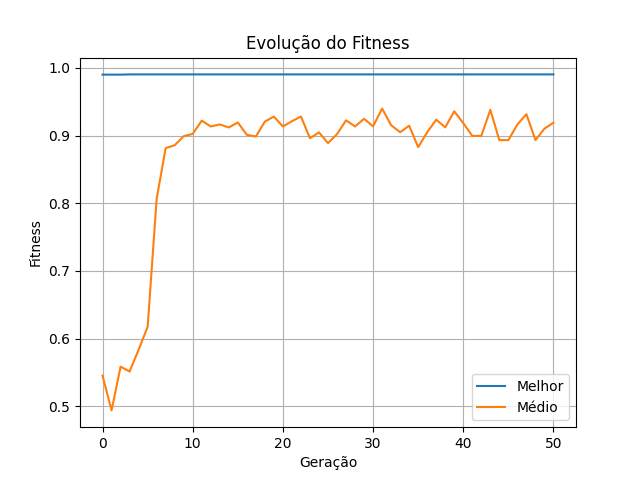
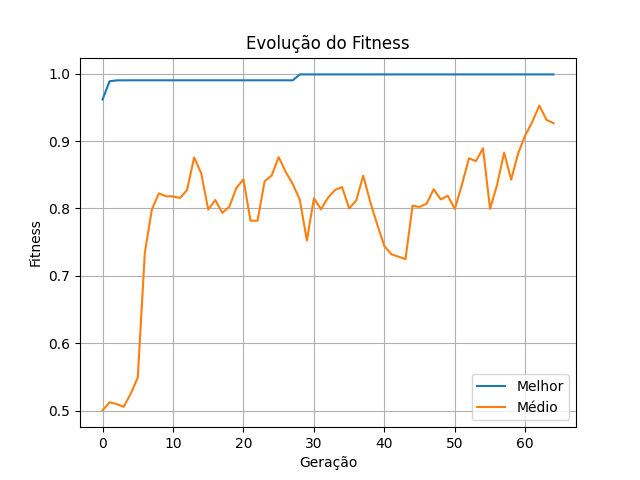
Mutação adaptativa

diff --git a/main.py b/main.py
@@ -6,12 +6,13 @@ import imageio.v2 as imageio
 
 # ================= CONFIG =================
 TAMANHO_POP = 200
-GERACOES = 51
+GERACOES = 65
 TAXA_CROSS = 0.9
-TAXA_MUT = 0.15
-MAXMUT = 1
-ELITESIZE = 2
-TORNEIOSIZE = 5
+TAXA_MUT = 0.5
+MAXMUT = 2.5
+ELITESIZE = 3
+TORNEIOSIZE = 2
+FRM = 6 # Fator de Regressão da Taxa de Mutação
 
 # ==========================================
 
@@ -31,9 +32,9 @@ def calcula_fitness(populacao):
 def calcula_fitness_medio(populacao):
     return sum(fitness(ind[0], ind[1]) for ind in populacao) / len(populacao)
 
-def mutar_individuos(individuo, taxa_mutacao=TAXA_MUT):
-    for i in range(len(individuo)):
-        if random.random() < taxa_mutacao:
+def mutar_individuos(individuo, taxa_mutacao):
+    if random.random() < taxa_mutacao:
+        for i in range(len(individuo)):
             individuo[i] += random.gauss(0,MAXMUT)
             individuo[i] = max(-10, min(10, individuo[i]))
     return individuo
@@ -98,52 +99,72 @@ def plotar_geracao(populacao, geracao, pasta="frames"):
     plt.close()
 
 # --- EXECUÇÃO ---
+sucs = 0
+for i in range(1):
+    # limpa frames antigos
+    if os.path.exists("frames"):
+        for f in os.listdir("frames"):
+            os.remove(os.path.join("frames", f))
 
-# limpa frames antigos
-if os.path.exists("frames"):
-    for f in os.listdir("frames"):
-        os.remove(os.path.join("frames", f))
+    historico_fitness = []
+    historico_fitness_medio = []
 
-historico_fitness = []
-historico_fitness_medio = []
+    populacao = criar_população(TAMANHO_POP)
 
-populacao = criar_população(TAMANHO_POP)
+    melhor_f = 0
+    fit_medio = 0
+    for g in range(GERACOES):
+        #TAXA_MUT_G = TAXA_MUT * max(0,(1-(g/(GERACOES-5))**FRM))
+        # normaliza tempo
+        x = g / (GERACOES - 5)
 
-for g in range(GERACOES):
-    fits = calcula_fitness(populacao)
-    fit_medio = calcula_fitness_medio(populacao)
-    melhor_f = max(fits)
+        # decaimento temporal (controla convergência final)
+        decay = (1 - x**FRM)
 
-    historico_fitness.append(melhor_f)
-    historico_fitness_medio.append(fit_medio)
+        # diferença entre melhor e médio (estado da população)
+        delta = (melhor_f - fit_medio) / (abs(melhor_f)+0.0000001)
 
-    if g % 2 == 0 or g == GERACOES - 1:
-        plotar_geracao(populacao, g)
+        # mutação adaptativa + decaimento
+        TAXA_MUT_G = max(0.0,decay * (0 + (TAXA_MUT - 0) * np.exp(-5 * delta)))
 
-    # elitismo
-    elite_idx = np.argsort(fits)[-ELITESIZE:]
-    nova_pop = [populacao[i].copy() for i in elite_idx]
+        fits = calcula_fitness(populacao)
+        fit_medio = calcula_fitness_medio(populacao)
+        melhor_f = max(fits)
+
+        historico_fitness.append(melhor_f)
+        historico_fitness_medio.append(fit_medio)
+
+        if g % 2 == 0 or g == GERACOES - 1:
+            plotar_geracao(populacao, g)
+
+        # elitismo
+        elite_idx = np.argsort(fits)[-ELITESIZE:]
+        nova_pop = [populacao[i].copy() for i in elite_idx]
 
 
-    while len(nova_pop) < TAMANHO_POP:
-        p1 = selecao_torneio(populacao, fits)
-        p2 = selecao_torneio(populacao, fits)
+        while len(nova_pop) < TAMANHO_POP:
+            p1 = selecao_torneio(populacao, fits)
+            p2 = selecao_torneio(populacao, fits)
 
-        if random.random() < TAXA_CROSS:
-                f1, f2 = crossover(p1, p2)
-        else:
-            f1, f2 = p1.copy(), p2.copy()
+            if random.random() < TAXA_CROSS:
+                    f1, f2 = crossover(p1, p2)
+            else:
+                f1, f2 = p1.copy(), p2.copy()
 
-        f1 = mutar_individuos(f1)
-        f2 = mutar_individuos(f2)
+            f1 = mutar_individuos(f1,TAXA_MUT_G)
+            f2 = mutar_individuos(f2, TAXA_MUT_G)
 
-        nova_pop.append(f1)
-        if len(nova_pop) < TAMANHO_POP:
-            nova_pop.append(f2)
+            nova_pop.append(f1)
+            if len(nova_pop) < TAMANHO_POP:
+                nova_pop.append(f2)
 
-    populacao = nova_pop
+        populacao = nova_pop
 
-    print(f"Geracao {g}: Melhor={melhor_f:.6f} | Medio={fit_medio:.6}")
+        print(f"Geracao {g}: Melhor={melhor_f:.6f} | Medio={fit_medio:.6} | TAXAMUT={TAXA_MUT_G:.2}")
+    if melhor_f>0.9904:
+        sucs += 1 
+
+print(f"Taxa de sucesso: {sucs}%")
 
 # --- GIF ---
 
